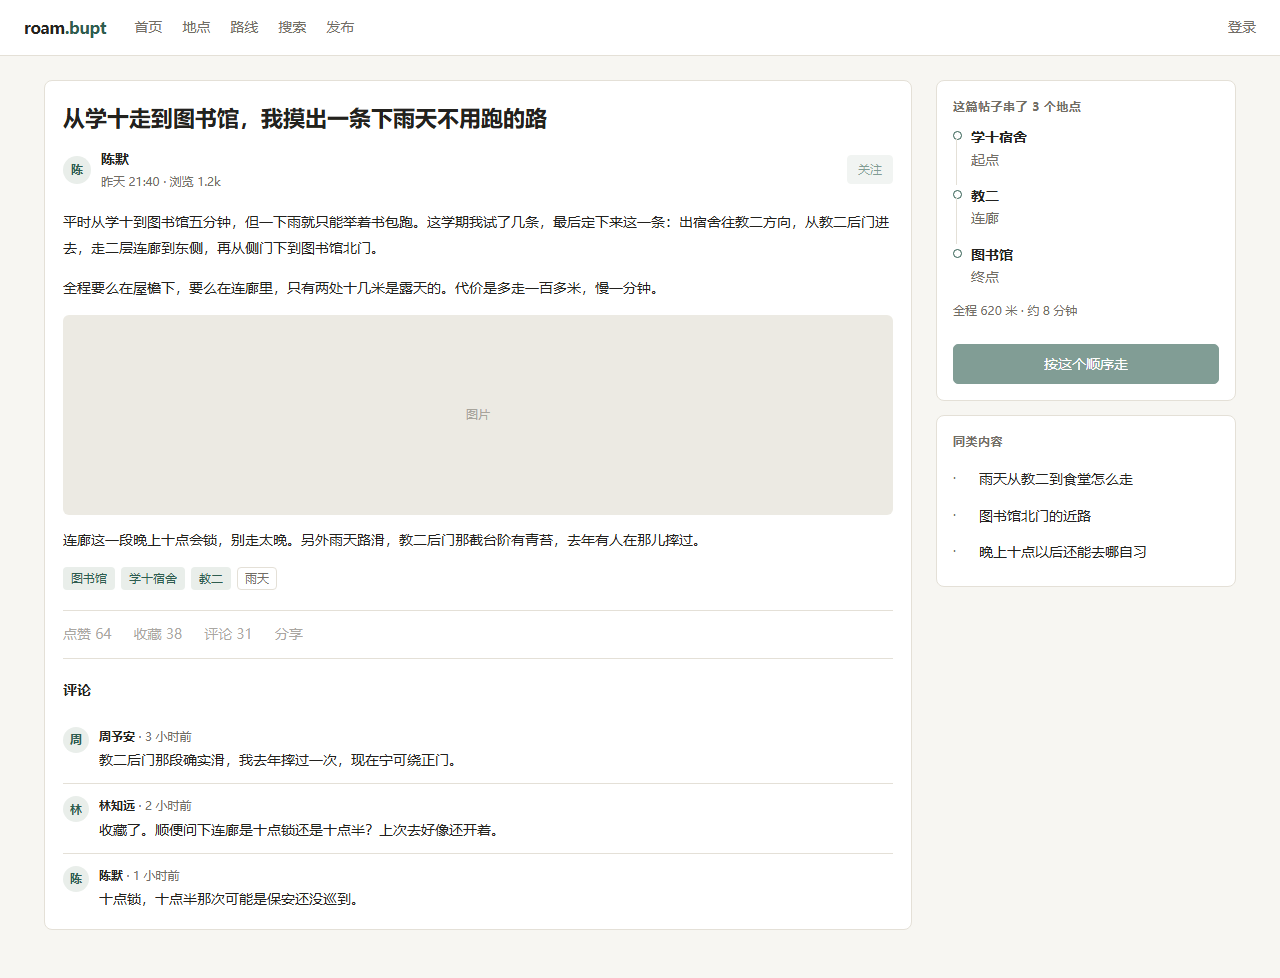
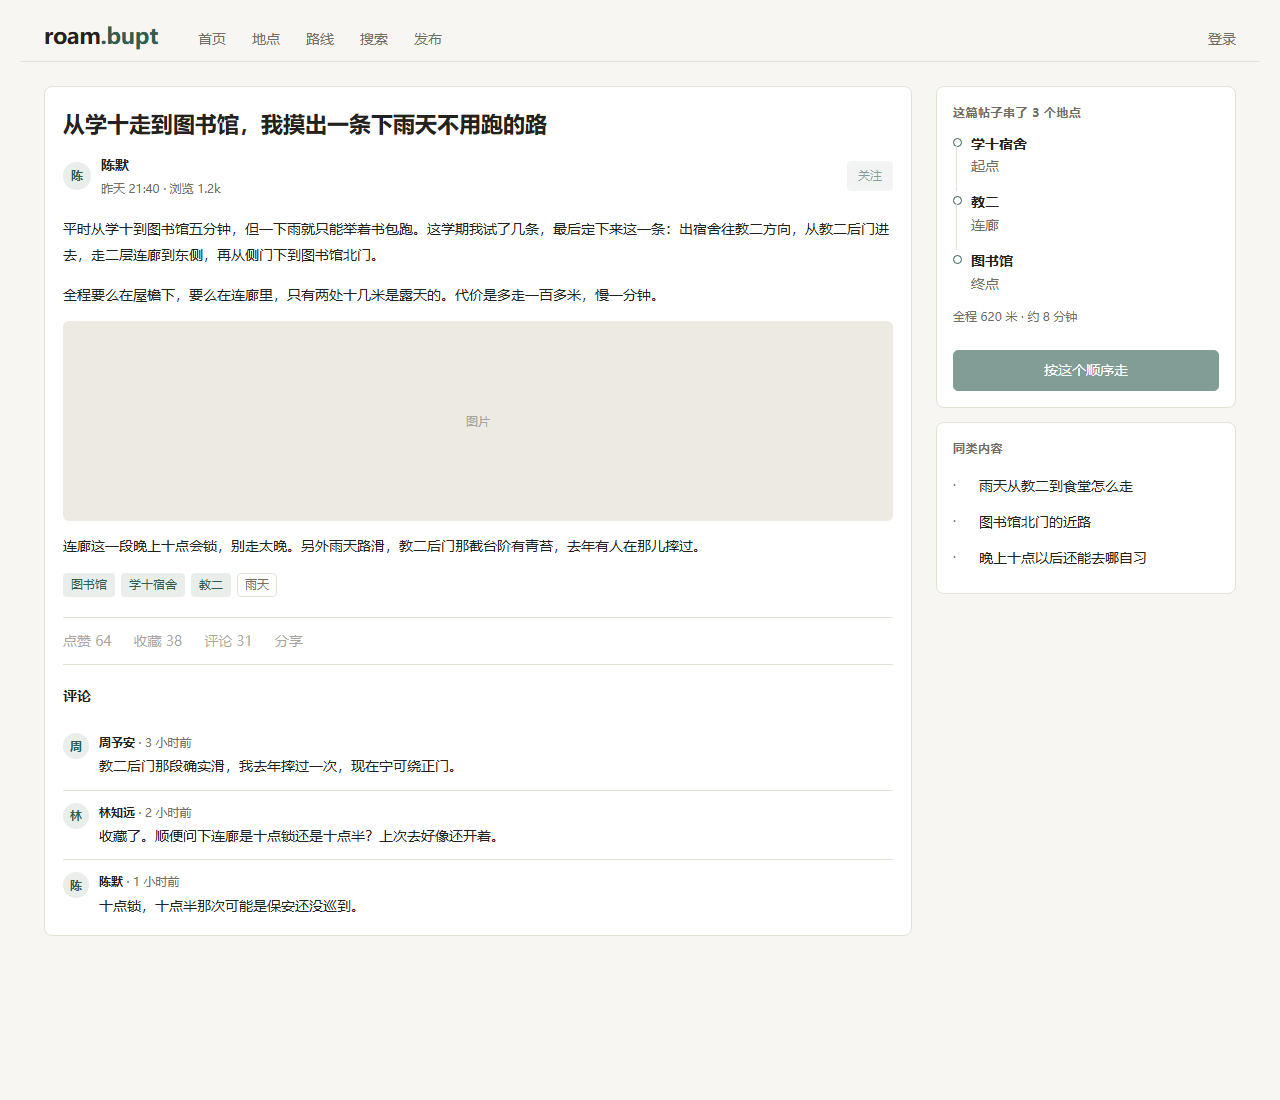
style(web): 顶栏改成与界面示意一致的纸色页签
- 去掉整条白色 topbar，改为纸色页头：左 22px 字标 + 下划线式页签 + 右侧登录态
- 页签选中态用 2px 强调色下划线，与 mockup 的外壳一致
- 窄屏页签换行并收窄内边距，375 不横向滚动
- 六张截图重拍

diff --git a/frontend/src/styles/base.css b/frontend/src/styles/base.css
@@ -86,21 +86,25 @@ ol {
 
 /* ---------- 顶栏 ---------- */
 
-.topbar {
+.site-header {
   position: sticky;
   top: 0;
   z-index: 10;
+  background: var(--paper);
+}
+
+.site-header-inner {
   display: flex;
-  align-items: center;
+  align-items: baseline;
   gap: 28px;
-  min-height: 56px;
-  padding: 0 24px;
-  background: var(--card);
+  max-width: 1240px;
+  margin: 0 auto;
+  padding: 18px 24px 0;
   border-bottom: 1px solid var(--line);
 }
 
 .wordmark {
-  font-size: var(--fs-lg);
+  font-size: var(--fs-xl);
   font-weight: 700;
   letter-spacing: -0.3px;
   white-space: nowrap;
@@ -110,24 +114,28 @@ ol {
   color: var(--accent);
 }
 
-.topnav {
+.site-tabs {
   display: flex;
-  gap: 20px;
+  gap: 2px;
   font-size: var(--fs-md);
 }
 
-.topnav a {
+.site-tabs a {
+  padding: 8px 12px 10px;
+  margin-bottom: -1px;
   color: var(--muted);
   white-space: nowrap;
+  border-bottom: 2px solid transparent;
 }
 
-.topnav a:hover,
-.topnav a.on {
+.site-tabs a:hover {
   color: var(--ink);
 }
 
-.topnav a.on {
+.site-tabs a.on {
+  color: var(--ink);
   font-weight: 600;
+  border-bottom-color: var(--accent);
 }
 
 .topright {
@@ -865,16 +873,20 @@ ol {
     padding: 16px;
   }
 
-  .topbar {
+  .site-header-inner {
     flex-wrap: wrap;
     gap: 8px 16px;
-    padding: 10px 16px;
+    padding: 12px 16px 0;
   }
 
-  .topnav {
+  .site-tabs {
     order: 3;
     width: 100%;
-    gap: 16px;
+    gap: 0;
+  }
+
+  .site-tabs a {
+    padding: 8px 8px 10px;
   }
 
   .topright {

diff --git a/frontend/src/components/AppLayout.vue b/frontend/src/components/AppLayout.vue
@@ -32,9 +32,10 @@ async function handleLogout() {
 
 <template>
   <div class="app-shell">
-    <header class="topbar">
+    <header class="site-header">
+      <div class="site-header-inner">
       <RouterLink to="/" class="wordmark">roam<span class="accent">.bupt</span></RouterLink>
-      <nav class="topnav">
+      <nav class="site-tabs">
         <RouterLink to="/" :class="{ on: activeSection === 'home' }">首页</RouterLink>
         <RouterLink to="/topics" :class="{ on: activeSection === 'topics' }">地点</RouterLink>
         <RouterLink to="/nav" :class="{ on: activeSection === 'nav' }">路线</RouterLink>
@@ -49,6 +50,7 @@ async function handleLogout() {
           <RouterLink :to="`/users/${userStore.user?.id ?? ''}`" class="avatar" :title="nickname">{{ initial }}</RouterLink>
         </template>
         <RouterLink v-else to="/login" class="link-button">登录</RouterLink>
+      </div>
       </div>
     </header>
     <main class="shell">
